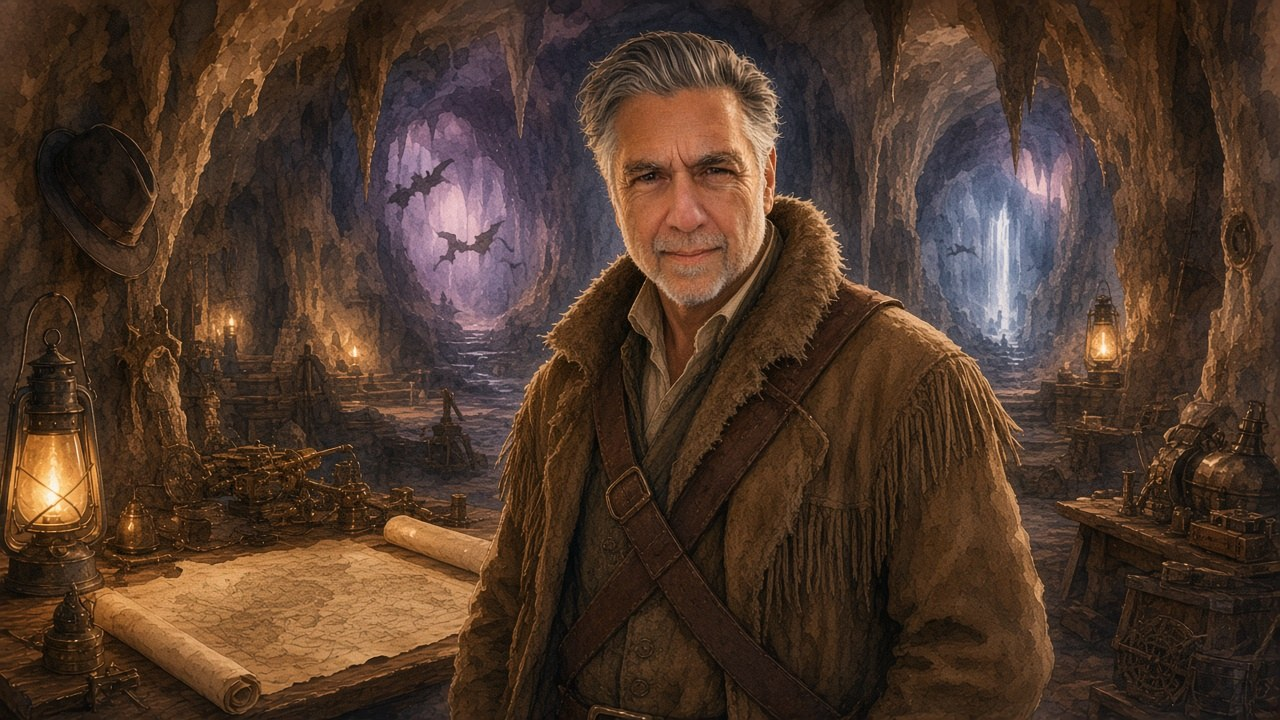
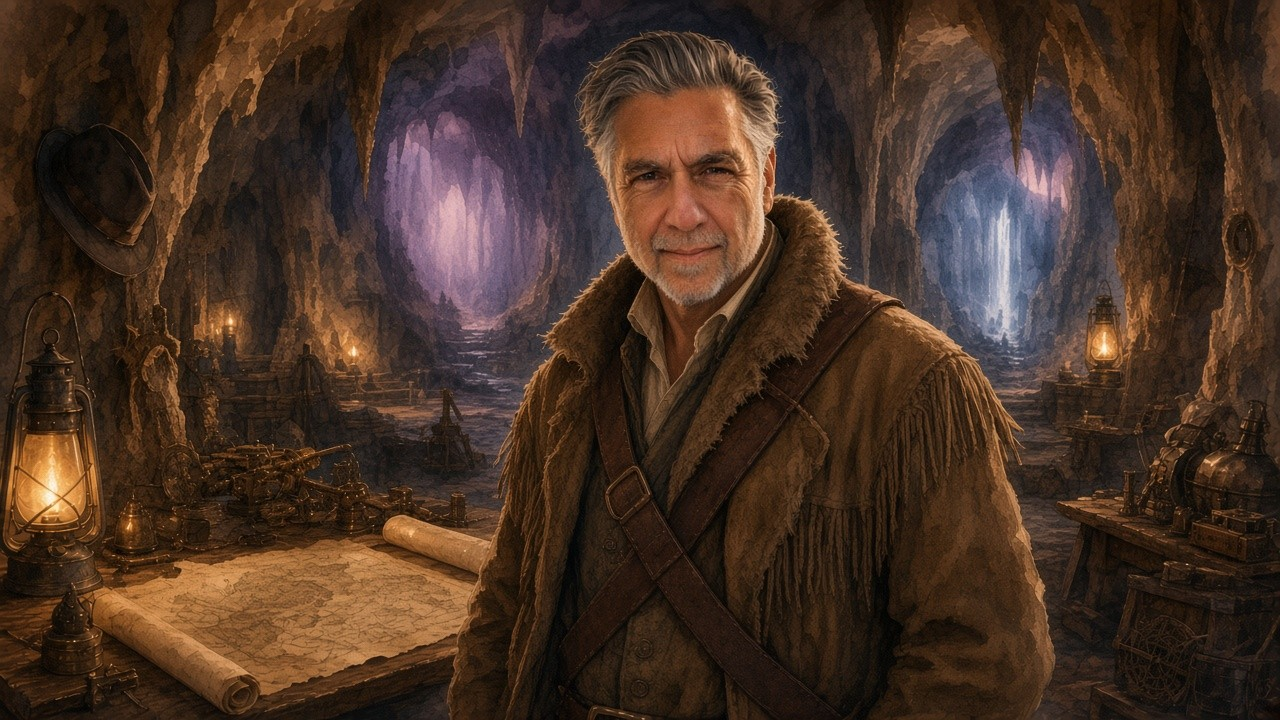
Soft Story skins: bare Vibelandia, fishing caps, bat-free cave.
- SS Vibelandia: bare head (no captain hat)
- Big-game + bottom fishing: short fishing caps (not wide hats)
- Bat cave: main work area with zero bats

diff --git a/product/holographic-skin-demonstration/living/index.html b/product/holographic-skin-demonstration/living/index.html
@@ -95,12 +95,12 @@
   const scenes = {
     'clark-kent': { id: 'clark-kent', label: 'Clark Kent', blurb: 'Ordinary day', image: MEDIA + 'hl-clark-kent.jpg' },
     superhero: { id: 'superhero', label: 'Superhero', blurb: 'Captain of SS Vibelandia', image: MEDIA + 'hl-superhero.jpg' },
-    vibelandia: { id: 'vibelandia', label: 'SS Vibelandia', blurb: 'Goldilocks cruiseship', image: MEDIA + 'hl-vibelandia.jpg' },
-    'bat-cave': { id: 'bat-cave', label: 'Bat cave', blurb: 'Work-cave', image: MEDIA + 'hl-bat-cave.jpg' },
+    vibelandia: { id: 'vibelandia', label: 'SS Vibelandia', blurb: 'Goldilocks cruiseship', image: MEDIA + 'hl-vibelandia.jpg?v=no-hat' },
+    'bat-cave': { id: 'bat-cave', label: 'Bat cave', blurb: 'Work-cave', image: MEDIA + 'hl-bat-cave.jpg?v=no-bats' },
     'frontier-work': { id: 'frontier-work', label: 'Frontier work', blurb: 'Labor at the edge', image: MEDIA + 'hl-frontier-work.jpg' },
     'duck-hunting': { id: 'duck-hunting', label: 'Duck hunting', blurb: 'Hunt for deliveries', image: MEDIA + 'hl-duck-hunting.jpg' },
-    'big-game-fishing': { id: 'big-game-fishing', label: 'Big game fishing', blurb: 'Tropical marlin · hunt for a sponsor', image: MEDIA + 'hl-big-game-fishing-marlin.jpg?v=soft-hat' },
-    'bottom-fishing': { id: 'bottom-fishing', label: 'Bottom fishing', blurb: 'Lines in deep water', image: MEDIA + 'hl-bottom-fishing.jpg' },
+    'big-game-fishing': { id: 'big-game-fishing', label: 'Big game fishing', blurb: 'Tropical marlin · hunt for a sponsor', image: MEDIA + 'hl-big-game-fishing-marlin.jpg?v=fish-cap' },
+    'bottom-fishing': { id: 'bottom-fishing', label: 'Bottom fishing', blurb: 'Lines in deep water', image: MEDIA + 'hl-bottom-fishing.jpg?v=fish-cap' },
     'whatsapp-root-lab': {
       id: 'whatsapp-root-lab',
       label: 'Root Lab',

diff --git a/product/holographic-skin-demonstration/assets/holographic-scene-catalog.js b/product/holographic-skin-demonstration/assets/holographic-scene-catalog.js
@@ -7,12 +7,12 @@ export const MEDIA = '/product/holographic-skin-demonstration/media/';
 export const SCENES = {
   'clark-kent': { label: 'Clark Kent', blurb: 'Ordinary day', image: MEDIA + 'hl-clark-kent.jpg' },
   superhero: { label: 'Superhero', blurb: 'Captain of SS Vibelandia', image: MEDIA + 'hl-superhero.jpg' },
-  vibelandia: { label: 'SS Vibelandia', blurb: 'Goldilocks cruiseship', image: MEDIA + 'hl-vibelandia.jpg' },
-  'bat-cave': { label: 'Bat cave', blurb: 'Work-cave', image: MEDIA + 'hl-bat-cave.jpg' },
+  vibelandia: { label: 'SS Vibelandia', blurb: 'Goldilocks cruiseship', image: MEDIA + 'hl-vibelandia.jpg?v=no-hat' },
+  'bat-cave': { label: 'Bat cave', blurb: 'Work-cave', image: MEDIA + 'hl-bat-cave.jpg?v=no-bats' },
   'frontier-work': { label: 'Frontier work', blurb: 'Labor at the edge', image: MEDIA + 'hl-frontier-work.jpg' },
   'duck-hunting': { label: 'Duck hunting', blurb: 'Hunt for deliveries', image: MEDIA + 'hl-duck-hunting.jpg' },
-  'big-game-fishing': { label: 'Big game fishing', blurb: 'Tropical marlin · hunt for a sponsor', image: MEDIA + 'hl-big-game-fishing-marlin.jpg?v=soft-hat' },
-  'bottom-fishing': { label: 'Bottom fishing', blurb: 'Lines in deep water', image: MEDIA + 'hl-bottom-fishing.jpg' },
+  'big-game-fishing': { label: 'Big game fishing', blurb: 'Tropical marlin · hunt for a sponsor', image: MEDIA + 'hl-big-game-fishing-marlin.jpg?v=fish-cap' },
+  'bottom-fishing': { label: 'Bottom fishing', blurb: 'Lines in deep water', image: MEDIA + 'hl-bottom-fishing.jpg?v=fish-cap' },
   'whatsapp-root-lab': {
     label: 'Root Lab',
     blurb: 'Root talk on the channel',
